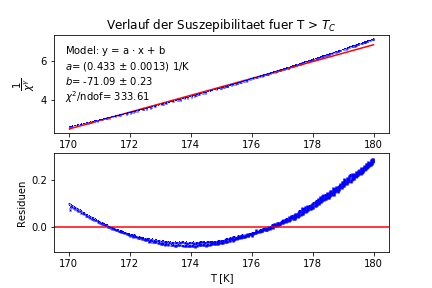
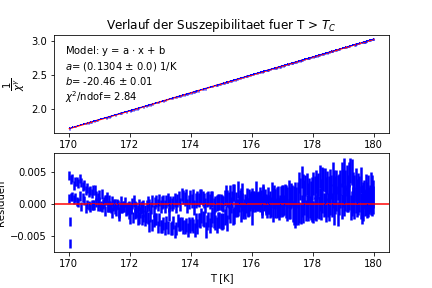
Auswertung Protokoll angefangen und gamma Anpassung korrigiert

diff --git a/PH/Protokoll/Magnetische Phasenuebergaenge.tex b/PH/Protokoll/Magnetische Phasenuebergaenge.tex
@@ -123,6 +123,66 @@ Bei der Vermessung der GdAg$_{1-x}$Zn$_x$-Probe wird nur der Imaginärteil gemes
 \subsubsection{Messung des Supraleiters}
 \subsubsection{Messung der Probe}
 
+\begin{figure}
+\centering
+\includegraphics[scale=1]{Bilder/Haupt_Probe/Suszeptibilitaet_Verlauf.png}
+\caption[test]{Verlauf der Suszeptibilität über die gesamte Messung.}
+\label{fig:Suszeptibilitaet_Verlauf}
+\end{figure}
+
+Für die Messung der Probe wurde eine Phase von \SI{180}{\degree} verwendet, daher sind die Daten an der X-Achse gespiegelt. Zudem ist ein sehr großer Offset in den Daten, der noch zu bestimmen ist. \\
+Für die Umrechnung der in der Messung aufgenommenen Spannung nach Korrektur des Offset in Suszeptibilität gilt folgender Zusammenhang:
+\begin{equation*}
+\chi = \dfrac{U}{C \cdot v \cdot V_{Probe} \cdot (1-n_M)}
+\end{equation*}
+Dabei sind
+\begin{equation*}
+C = 8034,7 \, \pm \, 34,7
+\end{equation*}
+die mit dem Supraleiter bestimmte Kalibrationskonstante, 
+\begin{equation*}
+V_{Probe} = \SI{22,90 \pm 0,05}{mm^3}
+\end{equation*}
+das Probenvolumen,
+\begin{equation*}
+n_M = 0,27
+\end{equation*}
+der Entmagnetisierungsfaktor und 
+\begin{equation*}
+v = \dfrac{\SI{10}{V}}{s}
+\end{equation*}
+der Verstärkungsfaktor, wobei $s$ die Sensitivität ist, die in diesem Versuch auf \SI{1}{mV} gestellt werden musste, da der Lockin-Verstärker ansonsten in einen Overload gelaufen wäre. Abbildung \ref{fig:Suszeptibilitaet_Verlauf} zeigt den Verlauf der Suszeptibilität der Probe über die gesamte Messung. \\
+Für einen Temperaturbereich deutlich oberhalb der Grenztemperatur $T_C$ gilt der Zusammenhang:
+\begin{equation*}
+\chi ^{-1} = \dfrac{T - T_C}{C_{Curie}}
+\end{equation*}
+Dabei ist $C_{Curie}$ die materialabhängige Curie-Konstante. Daher ergibt sich bei Auftragung von $\chi ^{-1}$ gegen T ein linearer Zusammenhang. In Abbildung \ref{fig:Suszeptibilitaet_Verlauf} ist zu erkennen, dass die Grenztemperatur bei ca. \SI{160}{K} liegt, sodass der Bereich für diese Anpassung gewählt wird zu \SI{180}{K} - \SI{190}{K}. \\
+Mit dieser Anpassung wird der Offset gewählt. Dazu wird die Anpassung für verschiedene Offsets in einem Bereich von \SI{0}{V} bis \SI{1,8}{V} in 10000 äquidistanten Schritten durchgeführt und derjenige Offset verwendet, der in der Anpassung das niedrigste $\chi ^2$/ndof ergeben hat.
+
+\begin{figure}
+\centering
+\includegraphics[scale=1]{Bilder/Haupt_Probe/CurieWeiss.png}
+\caption[test]{Lineare Anpassung bei Auftragung von $\chi ^{-1}$ gegen T in einem Bereich von \SI{180}{K} - \SI{190}{K}.}
+\label{fig:CurieWeiss}
+\end{figure}
+
+Abbildung \ref{fig:CurieWeiss} zeigt die lineare Anpassung bei dem bestimmten Offset. Die Grenztemperatur berechnet sich aus den Anpassungsparametern zu:
+\begin{equation*}
+T_C = -\dfrac{b}{a}
+\end{equation*}
+Die Fehler auf die Parameter pflanzt sich fort zu:
+\begin{equation*}
+\dfrac{\sigma _{T_C}}{T_C} = \sqrt{\left( \dfrac{\sigma _a}{a} \right)^2 + \left( \dfrac{\sigma _b}{b} \right)^2}
+\end{equation*}
+Der Wert für die Grenztemperatur ergibt sich zu (systematische Fehler werden später betrachtet):
+\begin{equation*}
+T_C = \SI{162,800 \pm 0,057}{K}
+\end{equation*}\\
+In einem Bereich nah an der Grenztemperatur wird der Zusammenhang besser beschrieben durch:
+\begin{equation*}
+\chi ^{-1} \propto (T - T_C)^\gamma
+\end{equation*}
+
 \section{Fazit}
 
 \end{document}

diff --git a/PH/Auswertung/Hauptversuch/Probe.py b/PH/Auswertung/Hauptversuch/Probe.py
@@ -58,17 +58,17 @@ T_C2_CW = -sol2_CW[2] / sol2_CW[0]
 #############Curie-Weiss-Gesetz Anpassung für Annäherung an T_C#################
 g = 4./3
 T_1_g, T_2_g = 170, 180
-T_g, chi_g, sT_g, schi_g = AM.untermenge_daten(T, 1./(chi)**g, sT, g*schi/chi**(1+g), T_1_g, T_2_g)
+T_g, chi_g, sT_g, schi_g = AM.untermenge_daten(T, 1./(chi)**(1/g), sT, 1/g*schi/chi**((1+g)/g), T_1_g, T_2_g)
 sol_g = p.lineare_regression_xy(T_g, chi_g, sT_g, schi_g)
 T_C_g = -sol_g[2] / sol_g[0]
 sT_C_g = T_C_g * np.sqrt((sol_g[1] / sol_g[0])**2 + (sol_g[3] / sol_g[2])**2)
 ################################################################################
 
 ###Curie-Weiss-Gesetz Anpassung für Annäherung an T_C - systematische Fehler###
-T1_g, chi1_g, sT1_g, schi1_g = AM.untermenge_daten(T, 1./(chi + schi_sys)**g, sT, g*schi/(chi + schi_sys)**(1+g), T_1_g, T_2_g)
+T1_g, chi1_g, sT1_g, schi1_g = AM.untermenge_daten(T, 1./(chi + schi_sys)**(1/g), sT, g*schi/(chi + schi_sys)**((1+g)/g), T_1_g, T_2_g)
 sol1_g = p.lineare_regression_xy(T1_g, chi1_g, sT1_g, schi1_g)
 T_C1_g = -sol1_CW[2] / sol1_CW[0]
-T2_g, chi2_g, sT2_g, schi2_g = AM.untermenge_daten(T, 1./(chi - schi_sys)**g, sT, g*schi/(chi - schi_sys)**(1+g), T_1_g, T_2_g)
+T2_g, chi2_g, sT2_g, schi2_g = AM.untermenge_daten(T, 1./(chi - schi_sys)**(1/g), sT, g*schi/(chi - schi_sys)**((1+g)/g), T_1_g, T_2_g)
 sol2_g = p.lineare_regression_xy(T2_g, chi2_g, sT2_g, schi2_g)
 T_C2_g = -sol2_g[2] / sol2_g[0]
 ################################################################################
